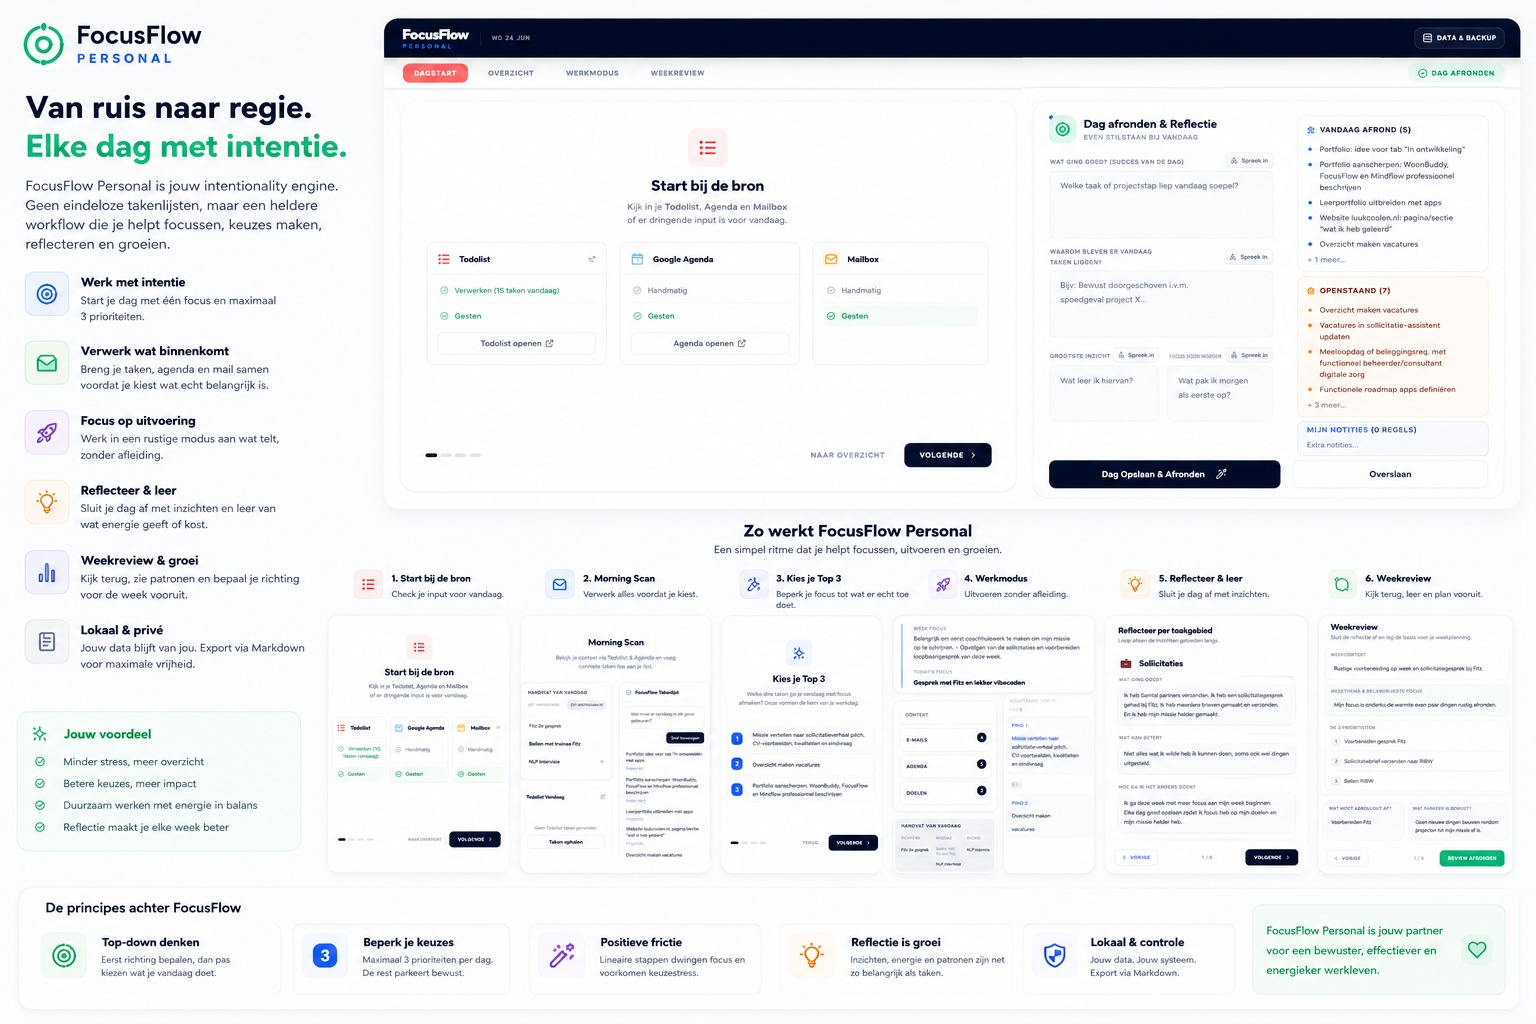
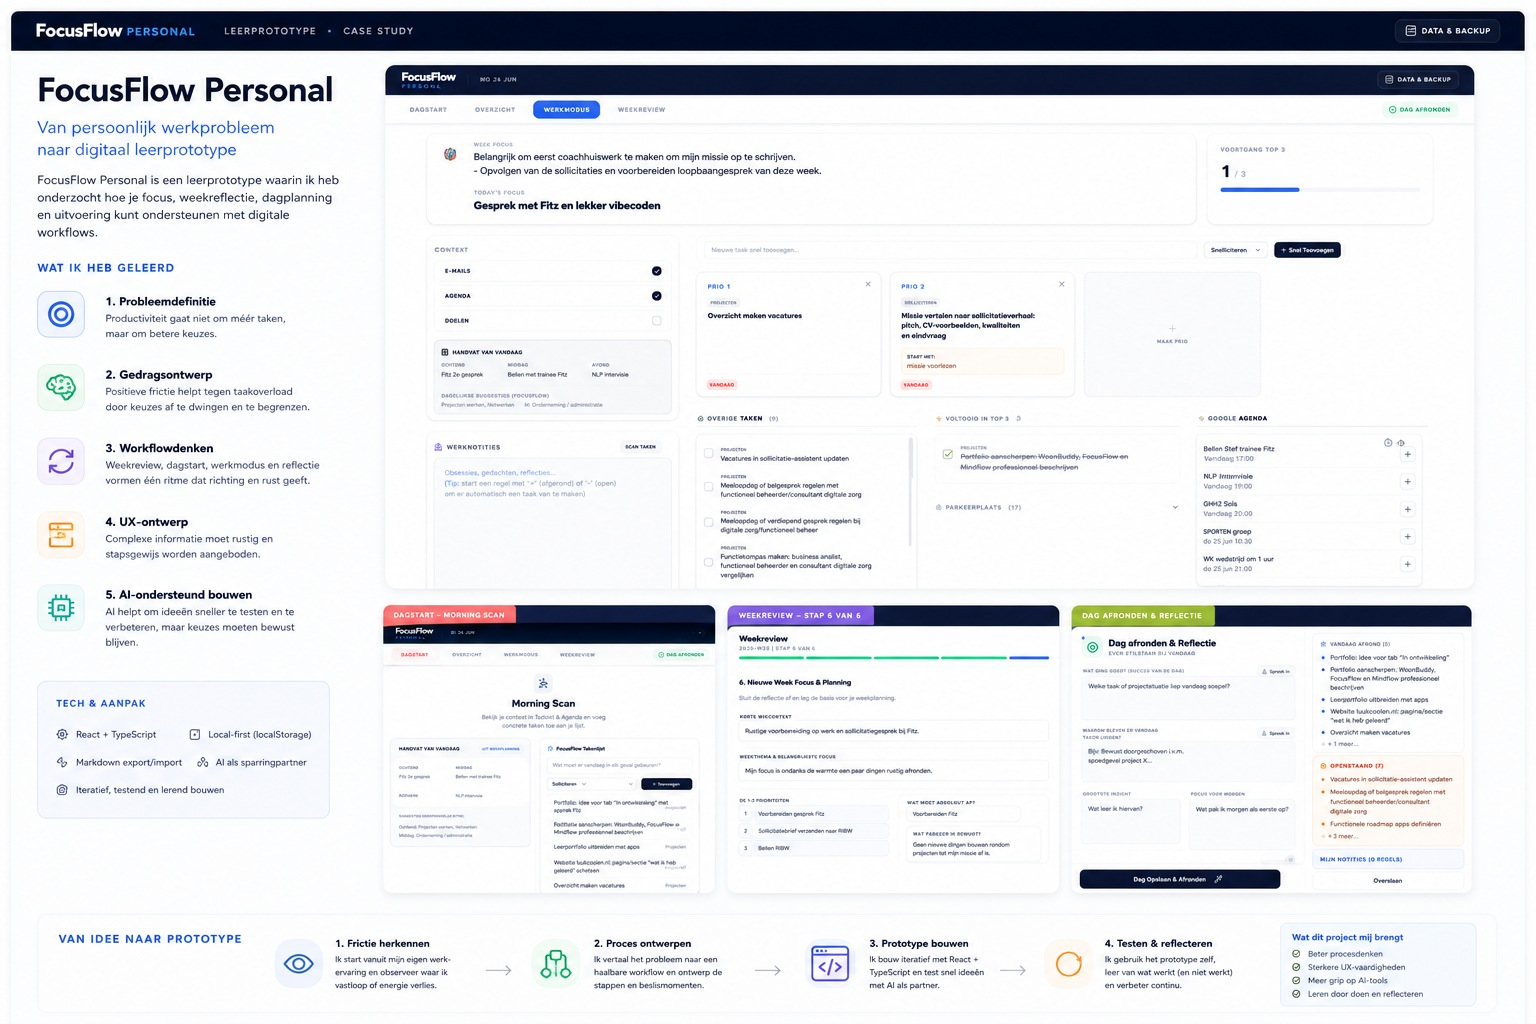
Refresh FocusFlow Personal screenshots

diff --git a/src/components/Experiments.tsx b/src/components/Experiments.tsx
@@ -79,7 +79,7 @@ const prototypes: Prototype[] = [
     examples: [
       { src: '/projects/focusflow-personal-dagstart.png', alt: 'FocusFlow Personal dagstart en morning scan' },
       { src: '/projects/focusflow-personal-werkmodus.png', alt: 'FocusFlow Personal werkmodus met Top 3 en parkeerplaats' },
-      { src: '/projects/focusflow-personal-weekreview.png', alt: 'FocusFlow Personal weekreview en planning' },
+      { src: '/projects/focusflow-personal-product-overview.jpg', alt: 'FocusFlow Personal productoverzicht met volledige workflow' },
     ],
     href: focusFlowPersonalHref,
     cta: focusFlowPersonalHref ? 'Bekijk FocusFlow Personal live hier' : 'In ontwikkeling',